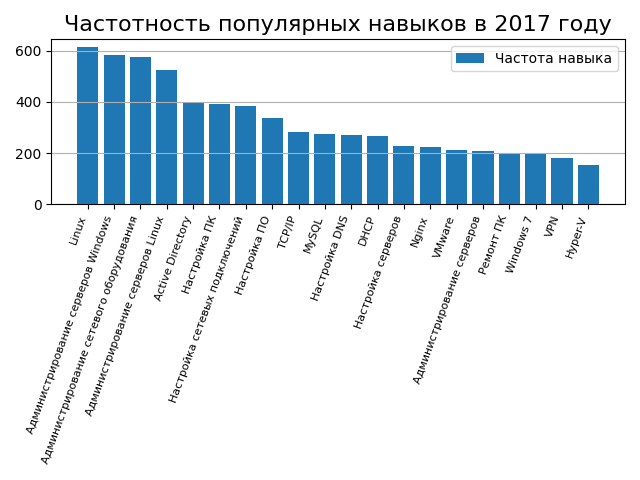
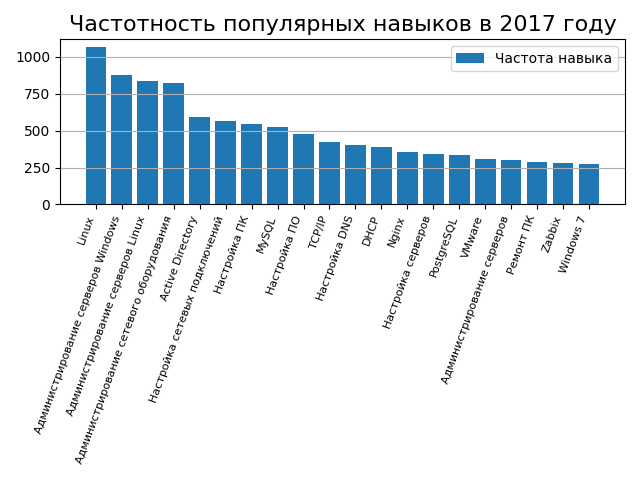
fixed top_skills page yayy

Changed region(s): [[0.0, 0.0312, 0.9688, 0.9688], [0.625, 0.7812, 0.6562, 0.8125]]

diff --git a/analytics/management/commands/get_top_skills.py b/analytics/management/commands/get_top_skills.py
@@ -1,42 +1,32 @@
 from django.core.management.base import BaseCommand
-from django.db.models import Count
-from django.db.models.functions import ExtractYear
-from collections import defaultdict, Counter
 from analytics.models import Vacancy, Top_skills
 
 
 class Command(BaseCommand):
     def handle(self, *args, **options):
-        # Удалим старые данные
         Top_skills.objects.all().delete()
-
-        # Получаем данные вакансий с ненулевым полем published_at
-        data = Vacancy.objects.filter(published_at__isnull=False)
-
-        # Аннотируем и группируем по годам
-        data = (data.annotate(year=ExtractYear('published_at'))
-                .values('year', 'key_skills')
-                .annotate(number_of_vacancies=Count('id')))
-
-        skills_by_year = defaultdict(Counter)
-
+        data = Vacancy.objects.all()
+        skills_by_year = {}
         for item in data:
-            year = item['year']
-            skills_str = item['key_skills']
+            year = item.published_at.year
+            skills_str = item.key_skills
 
             # Разбиваем строку навыков на отдельные навыки, разделенные запятыми и переносами строк
             if isinstance(skills_str, str):
-                skills_list = []
-                for separator in [',', '\n']:
-                    skills_list.extend(skill.strip() for skill in skills_str.split(separator) if skill.strip())
+                skills_list = skills_str.replace('\n', ',').replace(';', ',').split(',')
+                skills_list = [skill.strip() for skill in skills_list if skill.strip()]
 
                 for skill in skills_list:
+                    if year not in skills_by_year:
+                        skills_by_year[year] = {}
+                    if skill not in skills_by_year[year]:
+                        skills_by_year[year][skill] = 0
                     skills_by_year[year][skill] += 1
 
         # Оставляем топ-20 навыков для каждого года и сортируем
-        top_skills_by_year = {year: dict(counts.most_common(20)) for year, counts in skills_by_year.items()}
-        sorted_top_skills = sorted(top_skills_by_year.items())
+        sorted_top_skills = {year: dict(sorted(counts.items(), key=lambda item: item[1], reverse=True)[:20]) for
+                             year, counts in skills_by_year.items()}
 
         # Сохраняем в модель Top_skills
-        for year, skills_freq in sorted_top_skills:
-            Top_skills.objects.create(year=year, skills_list=skills_freq)
+        for year, skills in sorted_top_skills.items():
+            Top_skills.objects.create(year=year, skills_list=skills)
